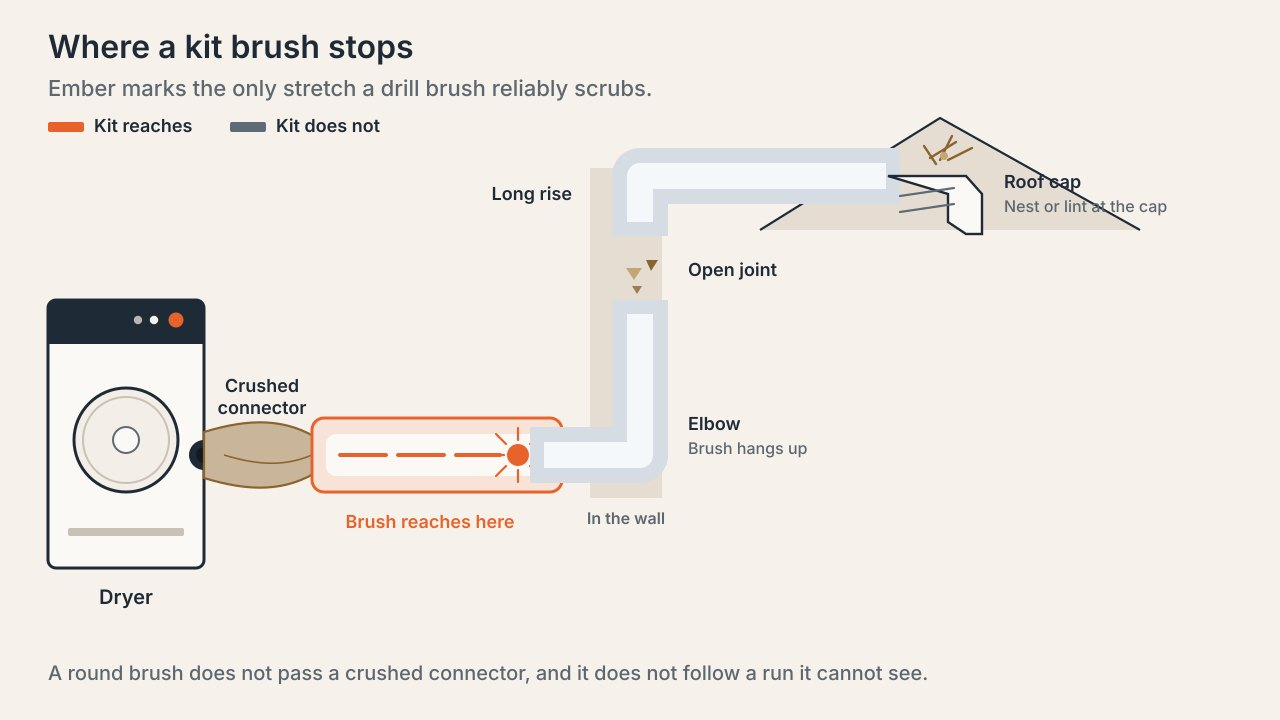
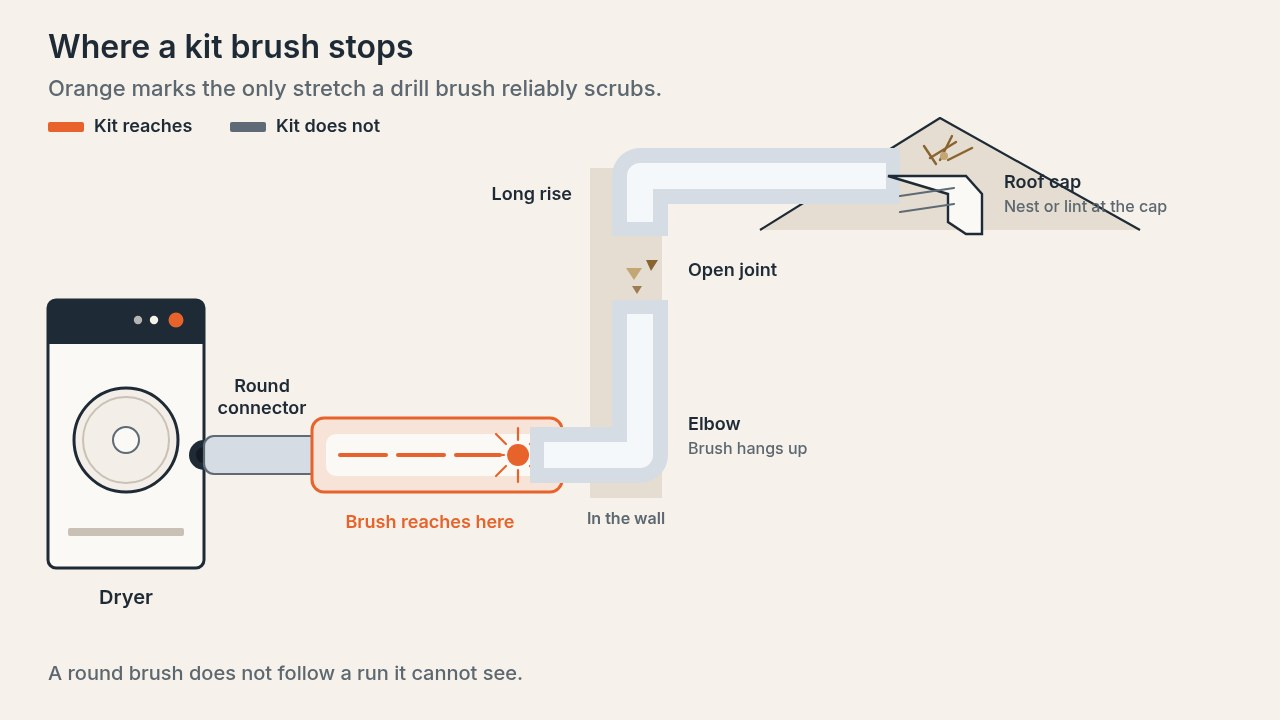
blog: tighten NFPA wording, fix brush-reach diagram, plain colour words, hero band

diff --git a/src/content/blog/diy-dryer-vent-cleaning-kit-vs-professional-boulder-county.md b/src/content/blog/diy-dryer-vent-cleaning-kit-vs-professional-boulder-county.md
@@ -12,7 +12,7 @@ description: What a dryer vent cleaning kit can clear on a short Boulder County 
 
 A dryer vent cleaning kit is a fair tool for one kind of house. The duct is short, straight, and metal, and it runs from a ground-floor dryer to a side-wall hood you can see from the yard. It is a poor match for a long run, a roof cap, or a pipe you cannot see the whole way. That is the split between a Saturday project and a job worth booking.
 
-The National Fire Protection Association, using 2010 through 2014 reports, found that failure to clean was the leading factor in home clothes dryer fires, about one-third of them. The same report says long, thin brushes are sold for lint in the vent pipe, and that dryer lint removal services do the same work. Cleaning the pipe matters. The open question is how much of your pipe a kit actually touches. The figures are in the [NFPA report on home fires involving clothes dryers and washing machines](https://content.nfpa.org/-/media/Project/Storefront/Catalog/Files/Research/NFPA-Research/US-Fire-Problem/Fire-causes/oswashersdryers.pdf).
+The National Fire Protection Association, using 2010 through 2014 reports, found that failure to clean was the leading factor in home clothes dryer fires, about one-third of them. The same report says long, thin brushes are sold to reach lint in the vent pipe, and that there are also dryer lint removal services. Cleaning the pipe matters. The open question is how much of your pipe a kit actually touches. The figures are in the [NFPA report on home fires involving clothes dryers and washing machines](https://content.nfpa.org/-/media/Project/Storefront/Catalog/Files/Research/NFPA-Research/US-Fire-Problem/Fire-causes/oswashersdryers.pdf).
 
 ## What is in the kit
 
@@ -44,7 +44,7 @@ A round brush follows a round pipe. On a short side-wall run, often under about 
 
 That is the job the kit is built for. A ground-floor laundry room on an outside wall is often exactly that.
 
-![Diagram of a dryer duct where a kit brush reaches only the first straight section, then stops at an elbow ahead of a long rise, a disconnected joint, and a roof cap](/img/diy-kit-brush-reach.jpg "The ember section is about as far as a drill brush reliably goes. The elbows, the open joint, and the roof cap are still ahead of it.")
+![Diagram of a dryer duct where a kit brush reaches only the first straight section, then stops at an elbow ahead of a long rise, a disconnected joint, and a roof cap](/img/diy-kit-brush-reach.jpg "The orange section is about as far as a drill brush reliably goes. The elbows, the open joint, and the roof cap are still ahead of it.")
 
 ## What a kit does not clear
 
@@ -76,13 +76,13 @@ Two-story houses and townhomes in the county often put the laundry upstairs or t
 
 ## When the professional clean is the better job
 
-Book [professional dryer vent cleaning](/dryer-vent-cleaning/) when the run is long, the exit is on the roof or an upper floor, the connector is crushed, the hood has a nest, a brush has stuck, or you are not sure the duct is still one piece. Also book when a normal load needs two cycles, the top of the dryer is hot to the touch, or there is little air at a hood you can reach. Those signs are ranked in [five signs your duct is packed](/blog/five-signs-your-duct-is-packed/). If the top of the dryer is hot to the touch, unplug it and leave it until the duct is cleared.
+Book [professional dryer vent cleaning](/dryer-vent-cleaning/) when the run is long, the exit is on the roof or an upper floor, the connector is crushed, the hood has a nest, a brush has stuck, or you are not sure the duct is still one piece. Also book when a normal load needs two cycles, the top of the dryer is hot to the touch, or there is little air at a hood you can reach. Those signs are ranked in [five signs your duct is packed](/blog/five-signs-your-duct-is-packed/). If the dryer runs hot, unplug it and leave it until the duct is cleared.
 
 A visit works from both ends. The hood comes off and is cleaned by hand, the flap is checked, and the airflow is read before and after. You get photos of the duct. A kit on one end of a pipe you cannot see does none of that. If a section is damaged, the work stops and you are told, rather than a brush being forced through.
 
-The published [dryer vent cleaning cost](/pricing/) is **$129** for a standard ground or side-wall clean, with a run under about 15 feet, and **$169** for a roof, upper-floor, or long run. You see which one you are before you book. After the first visit, the annual plan is **$109** for the next standard clean if you stay enrolled. A new duct, cap, or dryer part is not in the flat rate. [What the price includes](/blog/what-fixed-price-dryer-vent-cleaning-includes/) is the full-run clean, a basic inspection, an airflow check, and photos.
+The published [dryer vent cleaning cost](/pricing/) is **$129** for a standard ground or side-wall clean, with a run under about 15 feet, and **$169** for a roof, upper-floor, or long run. You see which price applies before you book. After the first visit, the annual plan is **$109** for the next standard clean if you stay enrolled. A new duct, cap, or dryer part is not in the flat rate. [What the price includes](/blog/what-fixed-price-dryer-vent-cleaning-includes/) is the full-run clean, a basic inspection, an airflow check, and photos.
 
-The NFPA report says to clean lint out of the vent pipe once a year, or to have a lint removal service do it. A kit on a short, straight duct can be part of looking after that pipe. It is not a stand-in for the full run when the duct leaves the room and you cannot see where it ends.
+The NFPA report says to clean lint out of the vent pipe once a year, and notes that lint removal services exist. A kit on a short, straight duct can be part of looking after that pipe. It is not a stand-in for the full run when the duct leaves the room and you cannot see where it ends.
 
 ![Checklist comparing dryer vent tasks a homeowner can do with jobs that belong in a professional clean](/img/diy-vs-pro-checklist.jpg "Clean the screen, check a ground-level hood, and look at the connector yourself. A roof exit, a long run, a crushed duct, a nest, a stuck brush, or a separated joint is a visit.")
 
